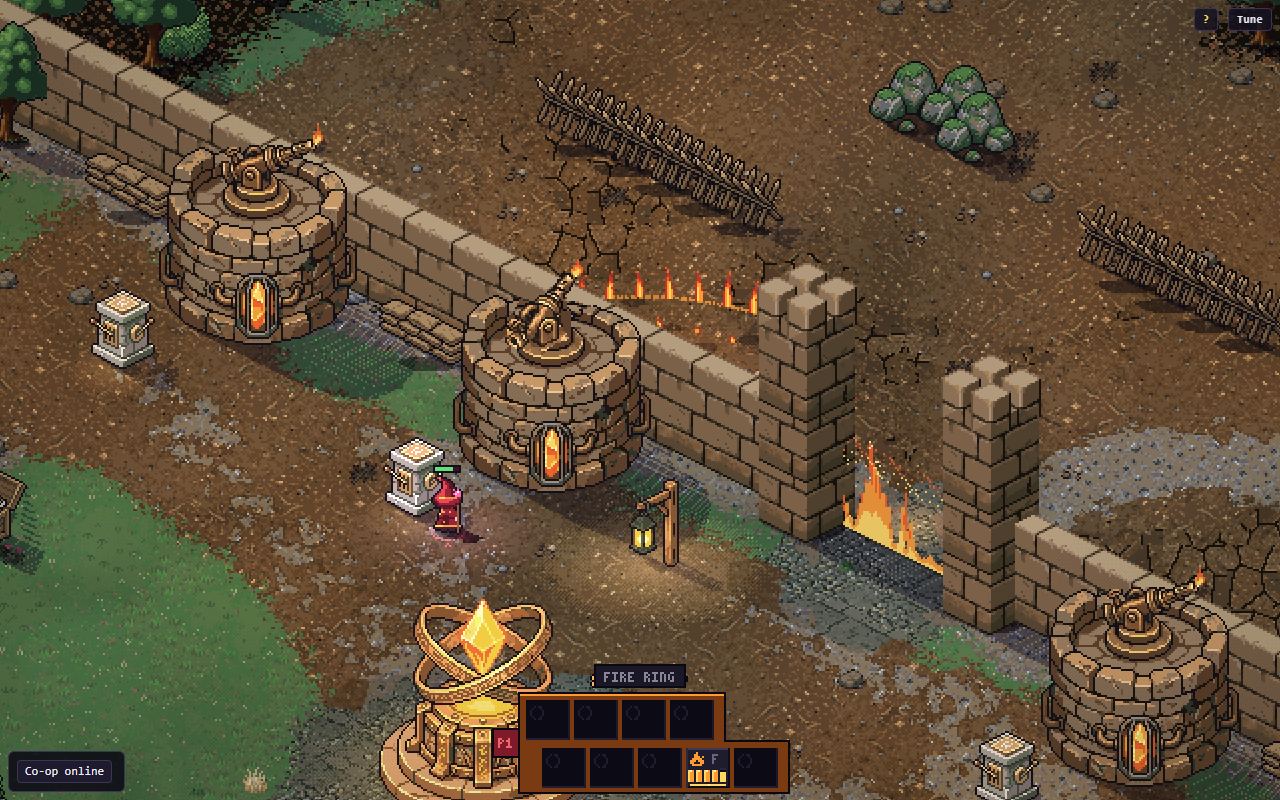
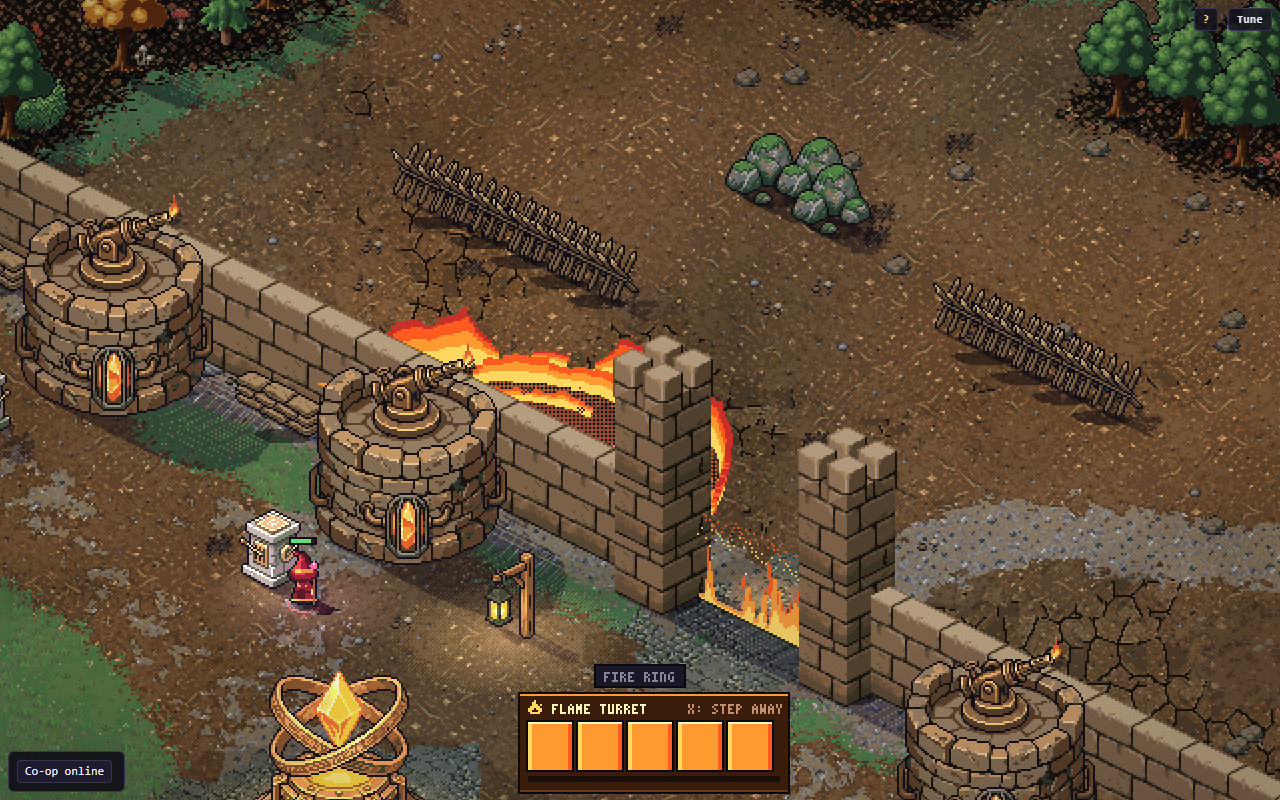
The battery: playtest fixes for driving a defence
An 80 degree swing, reach by screen direction, a thicker flame, the view leaning out over the field, placed spells with their own range and a dedicated device bar. Battery only, so the golden hash doesn't change. Rotation research added to the playtest task.

Claude-Session: https://claude.ai/code/session_01JAzvjmRJ1wdD5eYGXNht1d

diff --git a/game/packages/client/src/hud.ts b/game/packages/client/src/hud.ts
@@ -26,6 +26,10 @@ const TW = 320, TH = 22;
 /** Survive: the power-ups panel (top left) and the run-over card. */
 const PKW = 150, PKH = 4 * 13 + 2, OVW = 220, OVH = 132;
 
+/** What a device's bar shows. Each new kind of defence is one more of these. */
+interface DeviceBar { el: Element; name: string; plate: string; rim: string }
+const FLAME_TURRET: DeviceBar = { el: 'fire', name: 'FLAME TURRET', plate: '#3a1c0a', rim: '#6a3414' };
+
 export class Hud {
   readonly sprite: Sprite;
   /** The wave strip at the top of the view (the Arena only). */
@@ -226,18 +230,17 @@ export class Hud {
       if (open && !this.unlocked[e] && w.tut) { const k = TUT_ORDER.indexOf(w.tut.state[TUT_STATE.beat]); if (k <= 0 || tutPool(TUT_ORDER[k - 1], e) <= 0) this.unlockAt[e] = t; }
       this.unlocked[e] = open ? 1 : 0;
     }
-    const bar = unlocked > 0 || (!!w.tut && w.tut.state[TUT_STATE.beat] >= TUT_RUNES_FROM);
+    const driven = !!w.battery && w.battery.drive[i] >= 0;
+    const bar = !driven && (unlocked > 0 || (!!w.tut && w.tut.state[TUT_STATE.beat] >= TUT_RUNES_FROM)); // a defence has its own bar, below
     // the backing plate follows the stagger: the top row is narrower than the bottom
-    const driven = !!w.battery && w.battery.drive[i] >= 0; // the bar is the defence's, and looks it (r2-beat-6 on the Opening Segment page)
     if (bar) {
-      const plate = driven ? '#7a3a12' : '#141220';
+      const plate = '#141220';
       X.rect(c, x0 - 1, y0 - 1, TOP.length * SLOT + 8, RH + 5, '#0a0810'); X.rect(c, x0 - 1, y0 + RH + 2, PW + 2, RH + 6, '#0a0810');
       X.rect(c, x0, y0, TOP.length * SLOT + 6, RH + 5, plate); X.rect(c, x0, y0 + RH + 3, PW, RH + 4, plate);
-      X.rect(c, x0, y0, TOP.length * SLOT + 6, 1, driven ? '#ff9a30' : '#3a3450');
+      X.rect(c, x0, y0, TOP.length * SLOT + 6, 1, '#3a3450');
     }
     if (w.battery) {
-      const prompt = driven ? 'X: STEP AWAY' : pedestalNear(w, i) >= 0 ? 'X: TAKE CONTROL' : '';
-      if (prompt) X.text(c, prompt, Math.round(CW / 2 - prompt.length * 2), Math.max(0, y0 - 9), driven ? '#ffb060' : '#ffd860', '#0a0810');
+      if (!driven && pedestalNear(w, i) >= 0) X.text(c, 'X: TAKE CONTROL', Math.round(CW / 2 - 30), Math.max(0, y0 - 9), '#ffd860', '#0a0810');
     }
     // the player's colour tab
     const team = X.TEAMS[i % 4];
@@ -261,6 +264,7 @@ export class Hud {
     const upkeep = channel && spec && s.chanTicks[i] >= T(RHYTHM.naturalChannel) ? spec.form : 0;
     // the shared regen budget: each refilling pool's share of R (0..1) sets how bright its flow shows
     const full = fullMask(w, i), R = regenOf(w, i);
+    if (driven) this.deviceBar(c, w, i, FLAME_TURRET, x0, y0, t, regenRate(w, i, elementId(FLAME_TURRET.el), full) / Math.max(R, 1e-6), upkeep === elementId(FLAME_TURRET.el));
     // queued runes are reserved: they show as spent pips until cast or refunded
     [...TOP, ...BOT].forEach((el, k) => {
       const row = k < TOP.length ? 0 : 1, col = row ? k - TOP.length : k, id = elementId(el), ramp = X.EL[el];
@@ -330,6 +334,35 @@ export class Hud {
   barRect(): { x: number; y: number; w: number; h: number } {
     const x0 = Math.round(CW / 2 - PW / 2 + 7), y0 = CH - PH - 1;
     return { x: this.sprite.x + x0 - 14, y: this.sprite.y + y0 - 15, w: PW + 16, h: PH + 16 };
+  }
+
+  /**
+   * The bar while you operate a device: the same footprint as the rune bar, all of it given to the device's one element. Each
+   * rune is a large cell that fills from the bottom, with the regen flowing along underneath.
+   */
+  private deviceBar(c: X.Ctx, w: World, i: number, dev: DeviceBar, x0: number, y0: number, t: number, share: number, drain: boolean): void {
+    const id = elementId(dev.el), ramp = X.EL[dev.el], v = w.seats.runes[i * N_EL + id - 1], max = Math.round(runeMax(w, i, id));
+    const dryK = t - this.dryAt[id] < 0.5, dry = dryK && Math.floor(t * 8) % 2 === 0;
+    X.rect(c, x0 - 1, y0 - 1, PW + 2, PH + 2, '#0a0810'); X.rect(c, x0, y0, PW, PH, dev.plate); X.rect(c, x0, y0, PW, 1, ramp[2]); X.rect(c, x0, y0 + PH - 1, PW, 1, dev.rim);
+    const pulse = t - this.spentAt[id] < 0.25 ? 1 : 0;
+    X.icon(c, dev.el, x0 + 4, y0 + 3 - pulse, ramp[1]);
+    X.text(c, dev.name, x0 + 16, y0 + 5, ramp[0]);
+    X.text(c, 'X: STEP AWAY', x0 + PW - 50, y0 + 5, '#c09070');
+    const gap = 3, cx0 = x0 + 4, cw = Math.floor((PW - 8 - gap * (max - 1)) / Math.max(1, max)), cy = y0 + 14, ch = 24;
+    for (let p = 0; p < max; p++) {
+      const x = cx0 + p * (cw + gap), fill = Math.max(0, Math.min(1, v - p));
+      X.rect(c, x - 1, cy - 1, cw + 2, ch + 2, dry ? '#a03040' : '#0a0810'); X.rect(c, x, cy, cw, ch, '#1a0e08');
+      if (fill <= 0.01) continue;
+      const h = Math.max(1, Math.round(fill * ch)), top = cy + ch - h, whole = fill >= 0.999;
+      X.rect(c, x, top, cw, h, whole ? ramp[2] : flowCol(ramp, share));
+      X.rect(c, x, top, 2, h, ramp[1]);
+      X.rect(c, x + cw - 2, top, 2, h, ramp[3]);
+      X.rect(c, x, top, cw, 1, whole ? ramp[0] : Math.floor(t * (4 + 14 * share)) % 2 ? ramp[0] : ramp[1]);
+    }
+    // the flow line: how fast the pool is refilling, and red while a long channel eats into it
+    const lw = PW - 8, fw = Math.round(lw * Math.min(1, share));
+    X.rect(c, x0 + 4, y0 + 41, lw, 3, '#1a0e08');
+    if (fw > 0) { X.rect(c, x0 + 4, y0 + 41, fw, 3, drain ? '#ff6a6a' : ramp[2]); X.px(c, x0 + 4 + Math.floor(mod(t * (2 + 10 * share), 1) * fw), y0 + 42, ramp[0]); }
   }
 
   /** A rune was spent from the pool (a cast): its icon hops. */

diff --git a/game/packages/sim/src/battery.ts b/game/packages/sim/src/battery.ts
@@ -10,7 +10,7 @@ import { len } from './geom';
 import { BTN, type PlayerInput } from './input';
 import { RUNES } from './config';
 import { EL, N_EL } from './elements';
-import { atan2Turns, cosTurns, sinTurns } from './trig';
+import { atan2Turns } from './trig';
 import { MAX_SEATS, PHASE, alive, type World } from './world';
 
 export const BATTERY = {
@@ -20,14 +20,22 @@ export const BATTERY = {
   wallY: -1,
   /** How far outside the wall's line the muzzle is: a body's radius and the wall's half-thickness, and a little. */
   muzzleGap: 0.9,
-  /** The flamethrower's reach from there, against a wizard's 4.5. */
+  /** The flamethrower's reach from there where a unit is widest on screen, against a wizard's 4.5. */
   sprayRange: 7.5,
+  /** Its reach where the screen squashes it most. */
+  sprayMax: 12,
+  /** A placed spell's reach, from the same point. */
+  placeRange: 18,
+  /** How far outside the wall's line a placed spell has to land. */
+  placeClear: 1,
   /** A defence's ring: a half-ring on the enemy's side. The wall hides about 4 units of ground behind it, so it has to reach past that. */
   ringRadius: 7,
-  /** The head swings this far either way of straight out, in turns: 45 degrees. */
-  swing: 0.125,
+  /** The head swings this far either way of straight out, in turns: 80 degrees, nearly along the wall. */
+  swing: 0.222,
 } as const;
 
+/** Straight out from the wall, north, as a facing in turns. */
+const STRAIGHT_OUT = 0.75;
 const TOWER = 'defence-tower', PEDESTAL = 'control-pedestal';
 const at = (w: World, asset: string) => w.def.props.filter((p) => p.asset === asset);
 
@@ -86,13 +94,27 @@ export function driveButtons(w: World, i: number, buttons: number): number {
   return s.queueLen[i] > 0 || s.phase[i] !== PHASE.idle ? buttons & (BTN.force | BTN.area | BTN.clear | BTN.use) : buttons & (BTN.clear | BTN.use);
 }
 
-/** The head turns on its collar and no further: the aim is kept within the swing either side of straight out from the wall. */
-export function clampDriveAim(w: World, i: number): void {
-  const s = w.seats, d = len(s.aimX[i], s.aimY[i]);
-  if (d < 1e-6) { s.aimX[i] = 0; s.aimY[i] = -1; return; }
+/** The way the head points, in turns: at the aim, and no further round than the swing either side of straight out from the wall. */
+export function driveFace(w: World, i: number): number {
+  const s = w.seats;
+  if (len(s.aimX[i], s.aimY[i]) < 1e-6) return STRAIGHT_OUT;
   let a = atan2Turns(s.aimX[i], -s.aimY[i]); // 0 is straight out, north; positive turns east
   if (a > 0.5) a -= 1;
-  if (Math.abs(a) <= BATTERY.swing) return;
-  const c = a < 0 ? -BATTERY.swing : BATTERY.swing;
-  s.aimX[i] = sinTurns(c) * d; s.aimY[i] = -cosTurns(c) * d;
+  return STRAIGHT_OUT + Math.max(-BATTERY.swing, Math.min(BATTERY.swing, a));
+}
+
+/**
+ * How far a defence's flamethrower reaches along (dx, dy). The camera squashes the ground 2:1 and is turned 45 degrees, so a
+ * unit up the screen is half the pixels of one across it. Reach is set by how long the flame looks, up to a limit.
+ */
+export function sprayReach(dx: number, dy: number): number {
+  const across = dx - dy, along = dx + dy;
+  const onScreen = Math.sqrt(0.5 * across * across + 0.125 * along * along);
+  return Math.min(BATTERY.sprayMax, BATTERY.sprayRange / Math.max(0.1, onScreen));
+}
+
+/** Where a defence's placed spell lands: the aim point on the enemy's side of the wall, within its own range. */
+export function driveTarget(w: World, i: number): [number, number] {
+  const s = w.seats, b = w.bodies, d = len(s.aimX[i], s.aimY[i]), k = d > BATTERY.placeRange ? BATTERY.placeRange / d : 1;
+  return [b.x[i] + s.aimX[i] * k, Math.min(BATTERY.wallY - BATTERY.placeClear, b.y[i] + s.aimY[i] * k)];
 }

diff --git a/tools/segments/01-opening/segment.js b/tools/segments/01-opening/segment.js
@@ -14,7 +14,7 @@ stages:[
 ],
 needsYou:[
 ],
-onMe:[`Your playtest notes on driving: aim to the left, range, flame, camera, patch range and a turret bar. The list is in docs/explorations/2026-11-10-battery-playtest-todo.md.`,`Then waves and lanes at the battery, the failing pool, the infusion and the repair.`,`Redraw the yard from your notes.`,`Revisit the pacing of the walks now that they can be long.`],
+onMe:[`Then waves and lanes at the battery, the failing pool, the infusion and the repair.`,`Redraw the yard from your notes.`,`Revisit the pacing of the walks now that they can be long.`],
 chapters:[
 {id:'hall',name:'Lecture hall and cloister',
  map:{W:50,H:34,base:'void',what:`You can walk about during the briefing, then leave along the cloister past the postings.`,
@@ -81,7 +81,7 @@ chapters:[
  [`Stone paving follows the ground's angle,`,` so the cobbles at the gate, the road and the well no longer look top-down.`],
  [`One lane per player.`,` Each wave sends the same number of enemies at each occupied defence, and they go for their own lane's defence first. Neighbouring reach overlaps so players can help. Solo is one lane at the centre.`],
  [`A defence's spells are built for the wall.`,` A longer flamethrower, since the tower stands behind the wall. Burst and wave casts land outside the wall, and a full circle doesn't make sense here, so the area cast covers only the enemy side.`],
- [`Driving is built.`,` X at a pedestal takes the defence and X steps away. Flamethrower reach 7.5, against a wizard's 4.5. The ring is a half-ring reaching 7. The head turns on three facings within 45 degrees of straight out. These numbers are first guesses.`],
+ [`Driving is built.`,` X at a pedestal takes the defence and X steps away. Flamethrower reach 7.5 to 12, longer where the screen squashes distance, against a wizard's 4.5. The ring is a half-ring reaching 7. Placed spells reach 18. The head swings 80 degrees each way. These numbers are first guesses.`],
  [`Each wave is built for one Fire attack.`,` Archers beyond spray reach call for Place, a swarm of small enemies for the burst, something heavy at the wall for the flamethrower. Wave sizes wait for the flamethrower and burst balance.`],
  [`The transition.`,` The last pip gutters and the nozzle coughs. The bar goes dark. The camera slides back to your body and everything goes quiet for a beat. A surge comes up from the ground, the screen brightens from your wizard outward, and one Fire pip lights. Then a single line, something like "You've learned to channel fire".`],
  [`The repair.`,` You take part, or do it yourselves, with a simple "press X to stabilize". The screen fades to black and back, and the well has changed: Unstable, then Drained, then Stable.`],

diff --git a/game/packages/sim/test/battery.test.ts b/game/packages/sim/test/battery.test.ts
@@ -1,6 +1,7 @@
 // The battery's gate: a standing wall of fire you can walk through, and it burns you.
 import { describe, expect, it } from 'vitest';
 import { BATTERY, BTN, EL, N_EL, NO_INPUT, WALL, createWorld, joinSeat, runeMax, step } from '../src';
+import { driveTarget, sprayReach } from '../src/battery';
 
 const NO_INPUTS = [NO_INPUT, NO_INPUT, NO_INPUT, NO_INPUT];
 
@@ -66,12 +67,32 @@ describe('driving a defence', () => {
     expect(w.bodies.y[0]).toBeCloseTo(hy, 0);
   });
 
-  it('keeps the aim within 45 degrees of straight out', () => {
+  it('turns the head no further than the swing, and never back over the wall', () => {
     const { w } = atPedestal();
     take(w);
-    step(w, [{ ...NO_INPUT, aimX: 320, aimY: 320 }, NO_INPUT, NO_INPUT, NO_INPUT]); // down and to the east: behind the wall
-    expect(w.seats.aimY[0]).toBeLessThan(0);
-    expect(Math.abs(Math.atan2(w.seats.aimX[0], -w.seats.aimY[0])) / (2 * Math.PI)).toBeCloseTo(BATTERY.swing, 3);
+    for (const aimX of [320, -320]) {
+      step(w, [{ ...NO_INPUT, aimX, aimY: 320 }, NO_INPUT, NO_INPUT, NO_INPUT]); // down the map: behind the wall
+      const off = w.bodies.face[0] - 0.75;
+      expect(Math.abs(off)).toBeCloseTo(BATTERY.swing, 3);
+      expect(Math.sign(off)).toBe(Math.sign(aimX));
+    }
+  });
+
+  it('reaches further where the screen squashes the distance, up to a limit', () => {
+    const right = sprayReach(Math.SQRT1_2, -Math.SQRT1_2), out = sprayReach(0, -1), up = sprayReach(-Math.SQRT1_2, -Math.SQRT1_2);
+    expect(right).toBeCloseTo(BATTERY.sprayRange, 3);
+    expect(out).toBeGreaterThan(right);
+    expect(up).toBeGreaterThan(out);
+    expect(up).toBeLessThanOrEqual(BATTERY.sprayMax);
+  });
+
+  it('places a spell well beyond the head\'s reach, but not behind the wall', () => {
+    const { w } = atPedestal();
+    take(w);
+    step(w, [{ ...NO_INPUT, aimX: 0, aimY: -32 * 14 }, NO_INPUT, NO_INPUT, NO_INPUT]);
+    expect(driveTarget(w, 0)[1]).toBeCloseTo(w.bodies.y[0] - 14, 3);
+    step(w, [{ ...NO_INPUT, aimX: 320, aimY: 32 * 6 }, NO_INPUT, NO_INPUT, NO_INPUT]);
+    expect(driveTarget(w, 0)[1]).toBeLessThan(BATTERY.wallY);
   });
 
   it('two players can\'t share a defence', () => {

diff --git a/game/packages/sim/src/cast.ts b/game/packages/sim/src/cast.ts
@@ -25,7 +25,7 @@ import { AIM_UNIT, BTN, type PlayerInput } from './input';
 import { TAP, channelsSpecial, heavy, heavyCharge, holdTick, retreat, special, specialTick, strike, strikeRecovery } from './hands';
 import { atan2Turns } from './trig';
 import { chooseElement, echoChannel, echoLater } from './survive';
-import { clampDriveAim, driveButtons, driving } from './battery';
+import { driveButtons, driveFace, driveTarget, driving } from './battery';
 import { CAST_ID, KIND, PHASE, QUEUE_MAX, regenRate, type World } from './world';
 
 const CASTS: Cast[] = ['force', 'force', 'area', 'place', 'self', 'conjure']; // index = CAST_ID
@@ -95,13 +95,14 @@ export function specOf(w: World, i: number): SpellSpec {
   return compile(queueOf(w, i, true), CASTS[w.seats.castId[i]], { drag: w.seats.dragged[i] === 1 });
 }
 
-const aimFace = (w: World, i: number) => atan2Turns(w.seats.aimY[i], w.seats.aimX[i]);
+const aimFace = (w: World, i: number) => (driving(w, i) ? driveFace(w, i) : atan2Turns(w.seats.aimY[i], w.seats.aimX[i]));
 
 /** Would Force make a turret? Those are placed: held to aim, they go at the cursor on release. */
 const forcePlaces = (w: World, i: number) => w.seats.queueLen[i] > 0 && compile(queueOf(w, i), 'force').shape === 'turret';
 
 /** The target point for Place (and Blink): the aim point, at most `range` away. */
 function target(w: World, i: number, range = SHAPES.placeRange): [number, number] {
+  if (driving(w, i)) return driveTarget(w, i);
   const s = w.seats, b = w.bodies, d = len(s.aimX[i], s.aimY[i]);
   const k = d > range ? range / d : 1;
   return [b.x[i] + s.aimX[i] * k, b.y[i] + s.aimY[i] * k];
@@ -164,7 +165,6 @@ export function tickSeat(w: World, i: number, inp: PlayerInput): void {
   s.prevButtons[i] = held;
   s.aimX[i] = inp.aimX * AIM_UNIT;
   s.aimY[i] = inp.aimY * AIM_UNIT;
-  if (driving(w, i)) clampDriveAim(w, i);
   if (s.aimX[i] !== 0 || s.aimY[i] !== 0) b.face[i] = aimFace(w, i);
 
   // Regen: one shared budget R among the pools that aren't full (world.ts regenRate). Attune multiplies R.

diff --git a/game/packages/client/src/art/vfx.ts b/game/packages/client/src/art/vfx.ts
@@ -862,7 +862,13 @@ export class Vfx {
           glowAlong(light, tip[0], v.y, ex, ey, 40, '#ffe68a', 0.4);
         } else {
           const kind: K.ConeKind = spec.scald ? 'scald' : look === 'fire' ? 'fire' : look === 'cold' ? 'cold' : 'water';
-          K.cone(o, tip, z, t, kind, t0, { spread: 0.28, seed: sd });
+          const fromHead = !!w.battery && w.battery.drive[i] >= 0;
+          if (fromHead) {
+            // a defence's flame is a jet from a fixed nozzle: three cones side by side, so it holds its body over the longer reach
+            const L = Math.hypot(z[0] - tip[0], z[1] - tip[1]) || 1, nx = -(z[1] - tip[1]) / L, ny = (z[0] - tip[0]) / L;
+            for (const j of [-1, 1]) K.cone(o, [tip[0] + nx * j * 2, tip[1] + ny * j], [z[0] + nx * j * 13, z[1] + ny * j * 6], t, kind, t0, { spread: 0.3, power: 1.5, seed: sd + 17 * j });
+            K.cone(o, tip, z, t, kind, t0, { spread: 0.34, power: 2.2, seed: sd });
+          } else K.cone(o, tip, z, t, kind, t0, { spread: 0.28, seed: sd });
           glowAlong(light, lerp(tip[0], ex, 0.25), lerp(v.y, ey, 0.25), ex, ey, 40, kind === 'fire' ? '#ff7a2a' : kind === 'cold' ? '#7ff0ff' : kind === 'scald' ? '#ffd0b0' : '#2a8cff', (kind === 'fire' ? 0.6 : 0.4) * flick(t, sd));
           if (kind === 'cold') for (let q = 0; q < 40; q++) { const a = rand(q, 61, sd) * TAU, r = Math.pow(rand(q, 62, sd), 0.7) * 18 * seg(t, t0 + 0.3, t0 + 1.3); X.px(g, ex + Math.cos(a) * r, ey + Math.sin(a) * r * FY * 0.7, q % 4 === 0 ? '#ffffff' : q % 2 ? '#bfe8f6' : '#8ccce4'); }
         }

diff --git a/game/packages/client/src/view.ts b/game/packages/client/src/view.ts
@@ -47,6 +47,8 @@ const STRIDE: Record<RigKind, number> = { wizard: 10, goblin: 7, archer: 7, brut
 const AMBIENT = 0xe4e8ff;
 /** ?lighting=0 turns the scene lighting off, to compare. */
 const LIGHTING = typeof location === 'undefined' || new URLSearchParams(location.search).get('lighting') !== '0';
+/** How far the view leans out over the battlefield while you drive a defence: view units, across and up. */
+const DRIVE_LOOK = 4.5;
 const PROP_LABEL: Record<PropSet, string> = { lean: 'LEAN, ANGLED, FULL DETAIL', simple: 'SIMPLE, ANGLED, LOW DETAIL', code: 'CODE, STRAIGHT-ON' };
 
 export class WorldView {
@@ -456,7 +458,8 @@ export class WorldView {
     const b = w.bodies, up: { x: number; y: number }[] = [], down: { x: number; y: number }[] = [], all: { x: number; y: number }[] = [];
     for (let s = 0; s < MAX_SEATS; s++) {
       if (b.kind[s] !== KIND.wizard) continue;
-      const [x, y] = this.drawnAt(s, w, alpha), p = { x, y };
+      const [x0, y0] = this.drawnAt(s, w, alpha), far = s < MAX_SEATS && w.battery && w.battery.drive[s] >= 0 ? DRIVE_LOOK : 0;
+      const p = { x: x0 + far, y: y0 - far }; // driving a defence, you look out over the battlefield: north is up and to the right
       all.push(p);
       if (this.isLocal(s)) (b.downed[s] ? down : up).push(p);
     }

diff --git a/game/packages/sim/src/effects.ts b/game/packages/sim/src/effects.ts
@@ -5,7 +5,7 @@
  * A Payload is what a hit carries: element counts plus a few flags. Missiles and zones store it
  * in their typed arrays (els, flags, mod, look) and rebuild the view object when they hit.
  */
-import { BATTERY, driving } from './battery';
+import { BATTERY, driving, sprayReach } from './battery';
 import type { Mod, SpellSpec } from './compile';
 import { ARMS, BODY, CELL, COMBAT, PERKS, RUNES, SHAPES, STATUS, STRUCT, SURFACE, T } from './config';
 import { EL, N_EL, elementName, queueFromCounts } from './elements';
@@ -436,7 +436,7 @@ export function channelTick(w: World, src: number, spec: SpellSpec, face: number
     return;
   }
   if (spec.shape === 'spray') {
-    const range = (driving(w, src) ? BATTERY.sprayRange : SHAPES.sprayRange) + 0.5 * (spec.sizeN - 1), half = SHAPES.sprayHalfAngle * (1 + 0.25 * (spec.sizeN - 1));
+    const range = (driving(w, src) ? sprayReach(dx, dy) : SHAPES.sprayRange) + 0.5 * (spec.sizeN - 1), half = SHAPES.sprayHalfAngle * (1 + 0.25 * (spec.sizeN - 1));
     // Rock and barriers stop a spray like a beam: it ends at the wall and wears it down (healing doesn't).
     const [wallD, wk] = clipRay(w, x, y, dx, dy, range);
     if (wk >= 0 && !spec.heal) damageWall(w, wk, payloadDamage(spec.counts, 0, rate));

diff --git a/docs/explorations/2026-11-10-battery-playtest-todo.md b/docs/explorations/2026-11-10-battery-playtest-todo.md
@@ -30,25 +30,22 @@ The battery exists only on the branch `worktree-opening-segments`, so start this
 
 ### Research: smooth turret rotation (#5)
 
-**Question for a research agent:** what's the best way to make a pixel-art turret head rotate without obvious snapping?
+**Researched 2026-11-10 by an agent. The user hasn't chosen yet.**
 
-The user's options: (a) generate more facings, (b) redesign the turret so it's easier to rotate, (c) a 3D-to-pixel-art pipeline. Also consider what shipped isometric and pixel-art games do, and whether a part of the head can rotate in code.
+Recommendation: a low-poly 3D model of the head only, rendered to about 24 facings over the 160-degree swing and locked to our palette, keeping the tower as the existing sprite. If that can't be tuned to sit with the tower in about 2 hours, fall back to a rounder head with a nozzle drawn in code.
 
-What we know:
-- `POST /v2/rotate` costs 1 generation per facing, run on the head alone at 64 px. Two facings came out usable, and the east one needed the old flame cleaned up by hand.
-- Affine rotation of the head in code mangled it.
-- #1 below widens the swing to nearly a half circle, so the facings needed go up. The answer should say how many facings hide the snap at this size (the head is about 50 px across).
-- Report cost, how well frames stay consistent, and how it extends to future turrets.
+- **How many facings:** at 24 over 160 degrees the nozzle moves about 3 px a step, which reads as a fine ratchet. 16 is acceptable if the head eases toward the aim at a capped turn rate and the muzzle flame hides the tip. This is arithmetic, not tested. The swing is mirror-symmetric only if the head is, and ours isn't quite.
+- **Evidence:** Factorio's rotating sprites use 64 directions (its prototype docs), and its community guide makes them in Blender. Classic RTS turrets at 16 to 32 facings is from memory, unverified.
+- **More Rotate facings:** 16 to 24 generations, cheap, but each is a fresh inference, so expect hand clean-up on perhaps a third. It doesn't extend well to other elements.
+- **Code-drawn nozzle on a round head:** cheap and perfectly consistent, but less hand-made.
+- **3D head:** about a day to model and tune, then any facing is free, and a new element is a palette swap. The risk is matching the painted brass.
+- **RotSprite from our 3 facings:** expected to mangle a head this detailed, as the affine rotation did.
 
-## Track B: the battery itself (this thread)
+Cheap first experiment, no paid calls: a rough head of about 100 faces in Blender, 9 facings at 10-degree steps at 64 px, orthographic at the game's angle, flat shading, no anti-aliasing, mapped to the palette with a script. Then sweep the mouse in the game next to the tower. It needs Blender on this machine.
 
-- **#8 Fire nova.** Main's rework (`15c0bae`, "Single-element novas are one surface going outward") landed after this branch's last merge, so the playtest showed the old nova. Merge main and look again before judging it. The half-ring clip in `drawFx` may need adjusting.
-- **#1 Can't aim left.** *Confirmed cause:* the clamp is 45 degrees either side of straight out on the plan, as first specified. On the 2:1 isometric screen that range runs from straight up to straight right, so "straight out" looks like one end of the swing and everything to the turret's upper left is out of reach. Widen it toward both tangents of the wall, about 80 degrees each way. It also needs art for those facings, which depends on #5.
-- **#2 Straight out looks tiny, to the right looks right.** *Confirmed cause:* foreshortening. A world unit straight up the screen is half the pixels of one to the right, and the wall hides the first 4 units or so. Same range, half the drawing. Fix: tune reach by screen direction, or a longer base range.
-- **#3 The spray is too thin for its range.** Scale the cone for a defence (`K.cone`, spread and power).
-- **#4 The camera should ease north-east while you drive,** so the battlefield fills the view.
-- **#7 The fire patch's range is too restrictive.** *Likely cause:* Place's aim point goes through the same swing clamp as the head. A placed spell should have its own range and shouldn't be limited to the head's wedge.
-- **#9 A dedicated turret bar.** Roughly the same size as the rune bar, but given over to one element, with more room for its runes and regen. Build it so other turrets can use it.
+## Track B: the battery itself (done 2026-11-10, first pass)
+
+Merged main for the new nova (#8). The swing is 80 degrees each way, on the plan (#1), though the art still has only 3 facings, so past about 22 degrees the head holds its last one until #5 is decided. Flamethrower reach is 7.5 where the screen is widest and up to 12 where it squashes most (#2). The flame is three cones with more particles (#3). The view leans 4.5 units out over the field and eases there (#4). Place has its own 18 range, limited only to the enemy's side of the wall (#7). A dedicated bar, one config entry per future device (#9). All numbers are first guesses for the user to judge.
 
 After these: waves and lanes, the failing pool, the infusion and the repair (`docs/decisions/README.md`, 2026-11-10; the Opening Segment page).
 

diff --git a/docs/decisions/README.md b/docs/decisions/README.md
@@ -1199,3 +1199,4 @@ From the user's play-test: Cold and a Water spray wouldn't freeze a Brute, but a
 - **Each element gets its own shape** (Claude's call): Fire a leaning wave with its body burning behind it, tearing apart in patches. Water a rolling swell with spray. Cold a serrated ice front over spreading frost, shattering where it stops. Life a see-through veil of upright threads with rising motes. Arcane a hard, fast hoop with knots running round it.
 - **Earth's quake and Lightning's discharge are unchanged:** they never used the ring of dots.
 - Only the drawing changed: radius, damage and timing of the casts are as they were.
+- **Playtest of driving, first pass** (the user's notes, `explorations/2026-11-10-battery-playtest-todo.md`): the swing is 80 degrees each way, reach depends on screen direction, the view leans out over the field, placed spells have their own range, and a device has its own bar.
